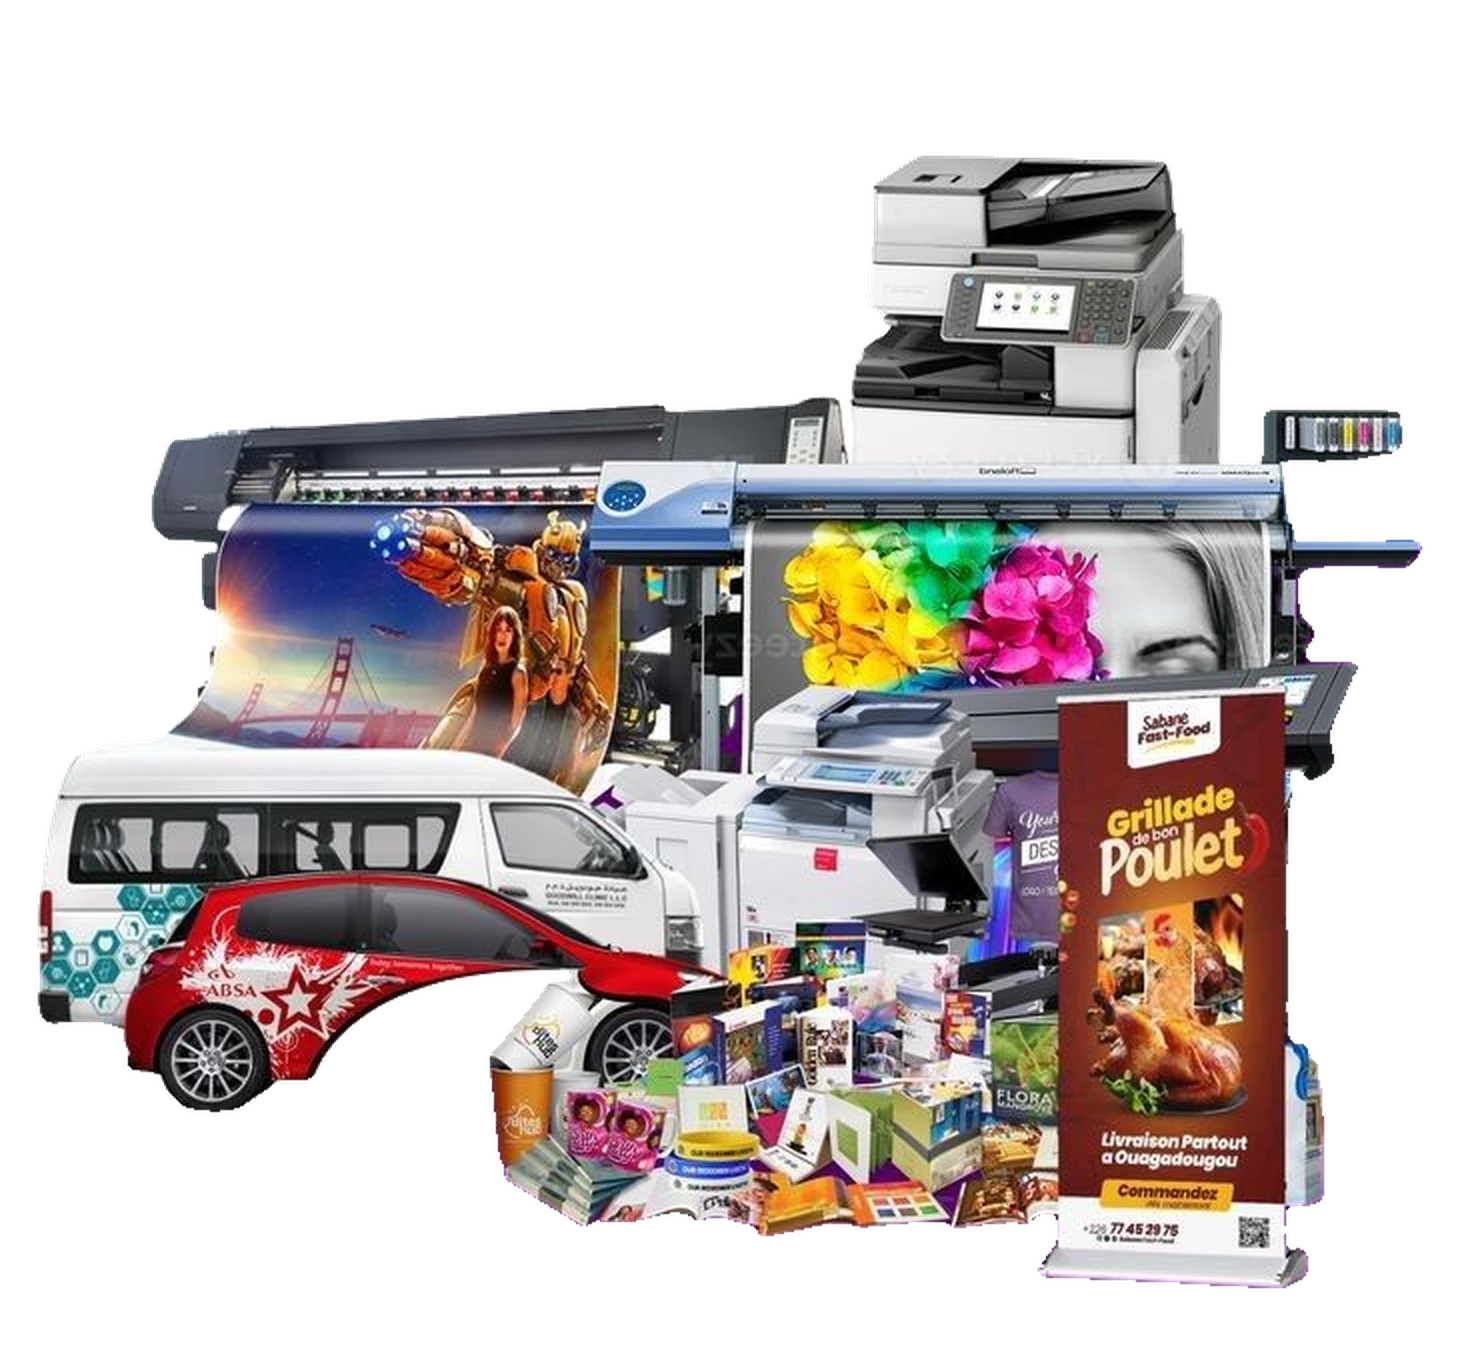
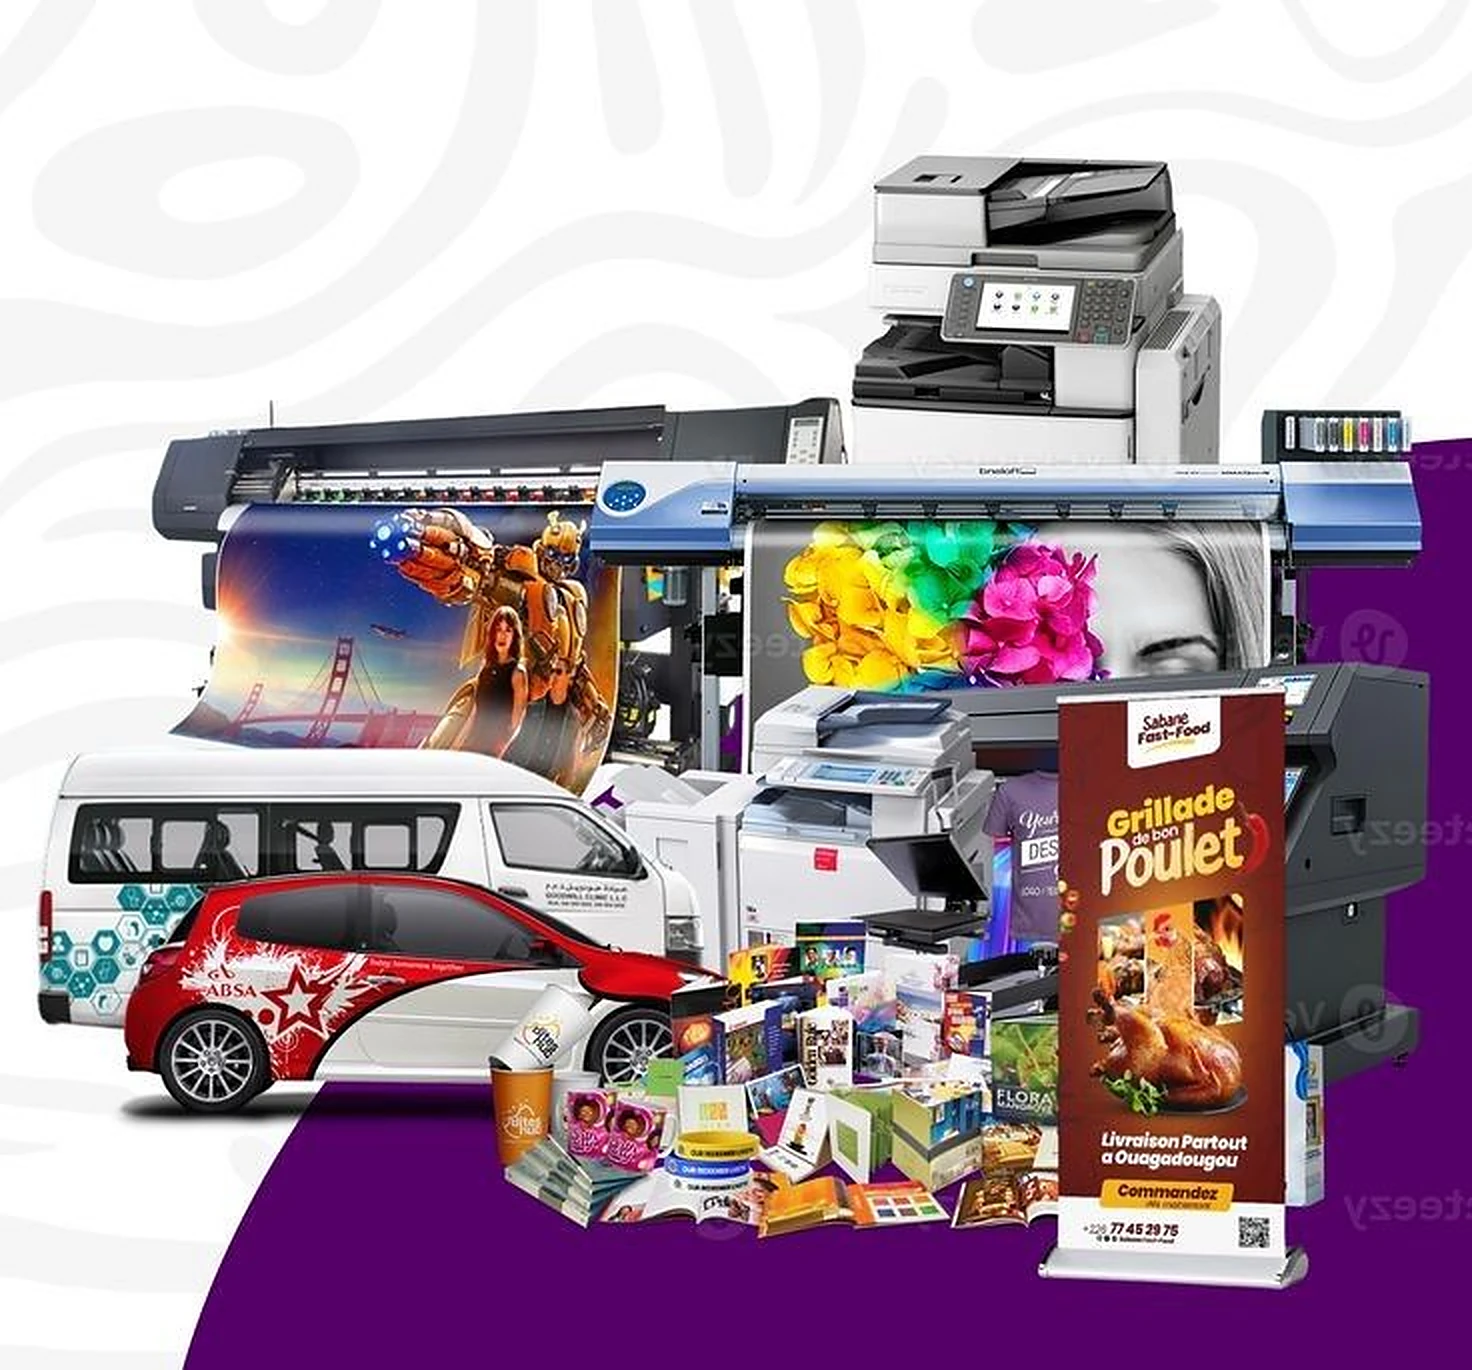
fix(storefront): print services section uses the full photo in a clean framed card
Claude-Session: https://claude.ai/code/session_01FUUk4RKLo5jqm7PrvG84qb

Changed region(s): [[0.0625, 0.3066, 1.0, 1.0], [0.0312, 0.7358, 0.0938, 0.7664]]

diff --git a/apps/storefront/src/app/page.tsx b/apps/storefront/src/app/page.tsx
@@ -357,13 +357,13 @@ export default async function HomePage() {
                 </Link>
               </div>
             </div>
-            <div className="relative aspect-[1472/1370] w-full">
+            <div className="relative aspect-[1472/1370] w-full overflow-hidden rounded-[1.25rem] bg-white shadow-offset">
               <Image
                 src={photos.equipements.src}
                 alt={photos.equipements.alt}
                 fill
                 sizes="(min-width: 1024px) 50vw, 92vw"
-                className="object-contain drop-shadow-[0_18px_30px_rgba(0,0,0,0.25)]"
+                className="object-cover"
               />
             </div>
           </div>
